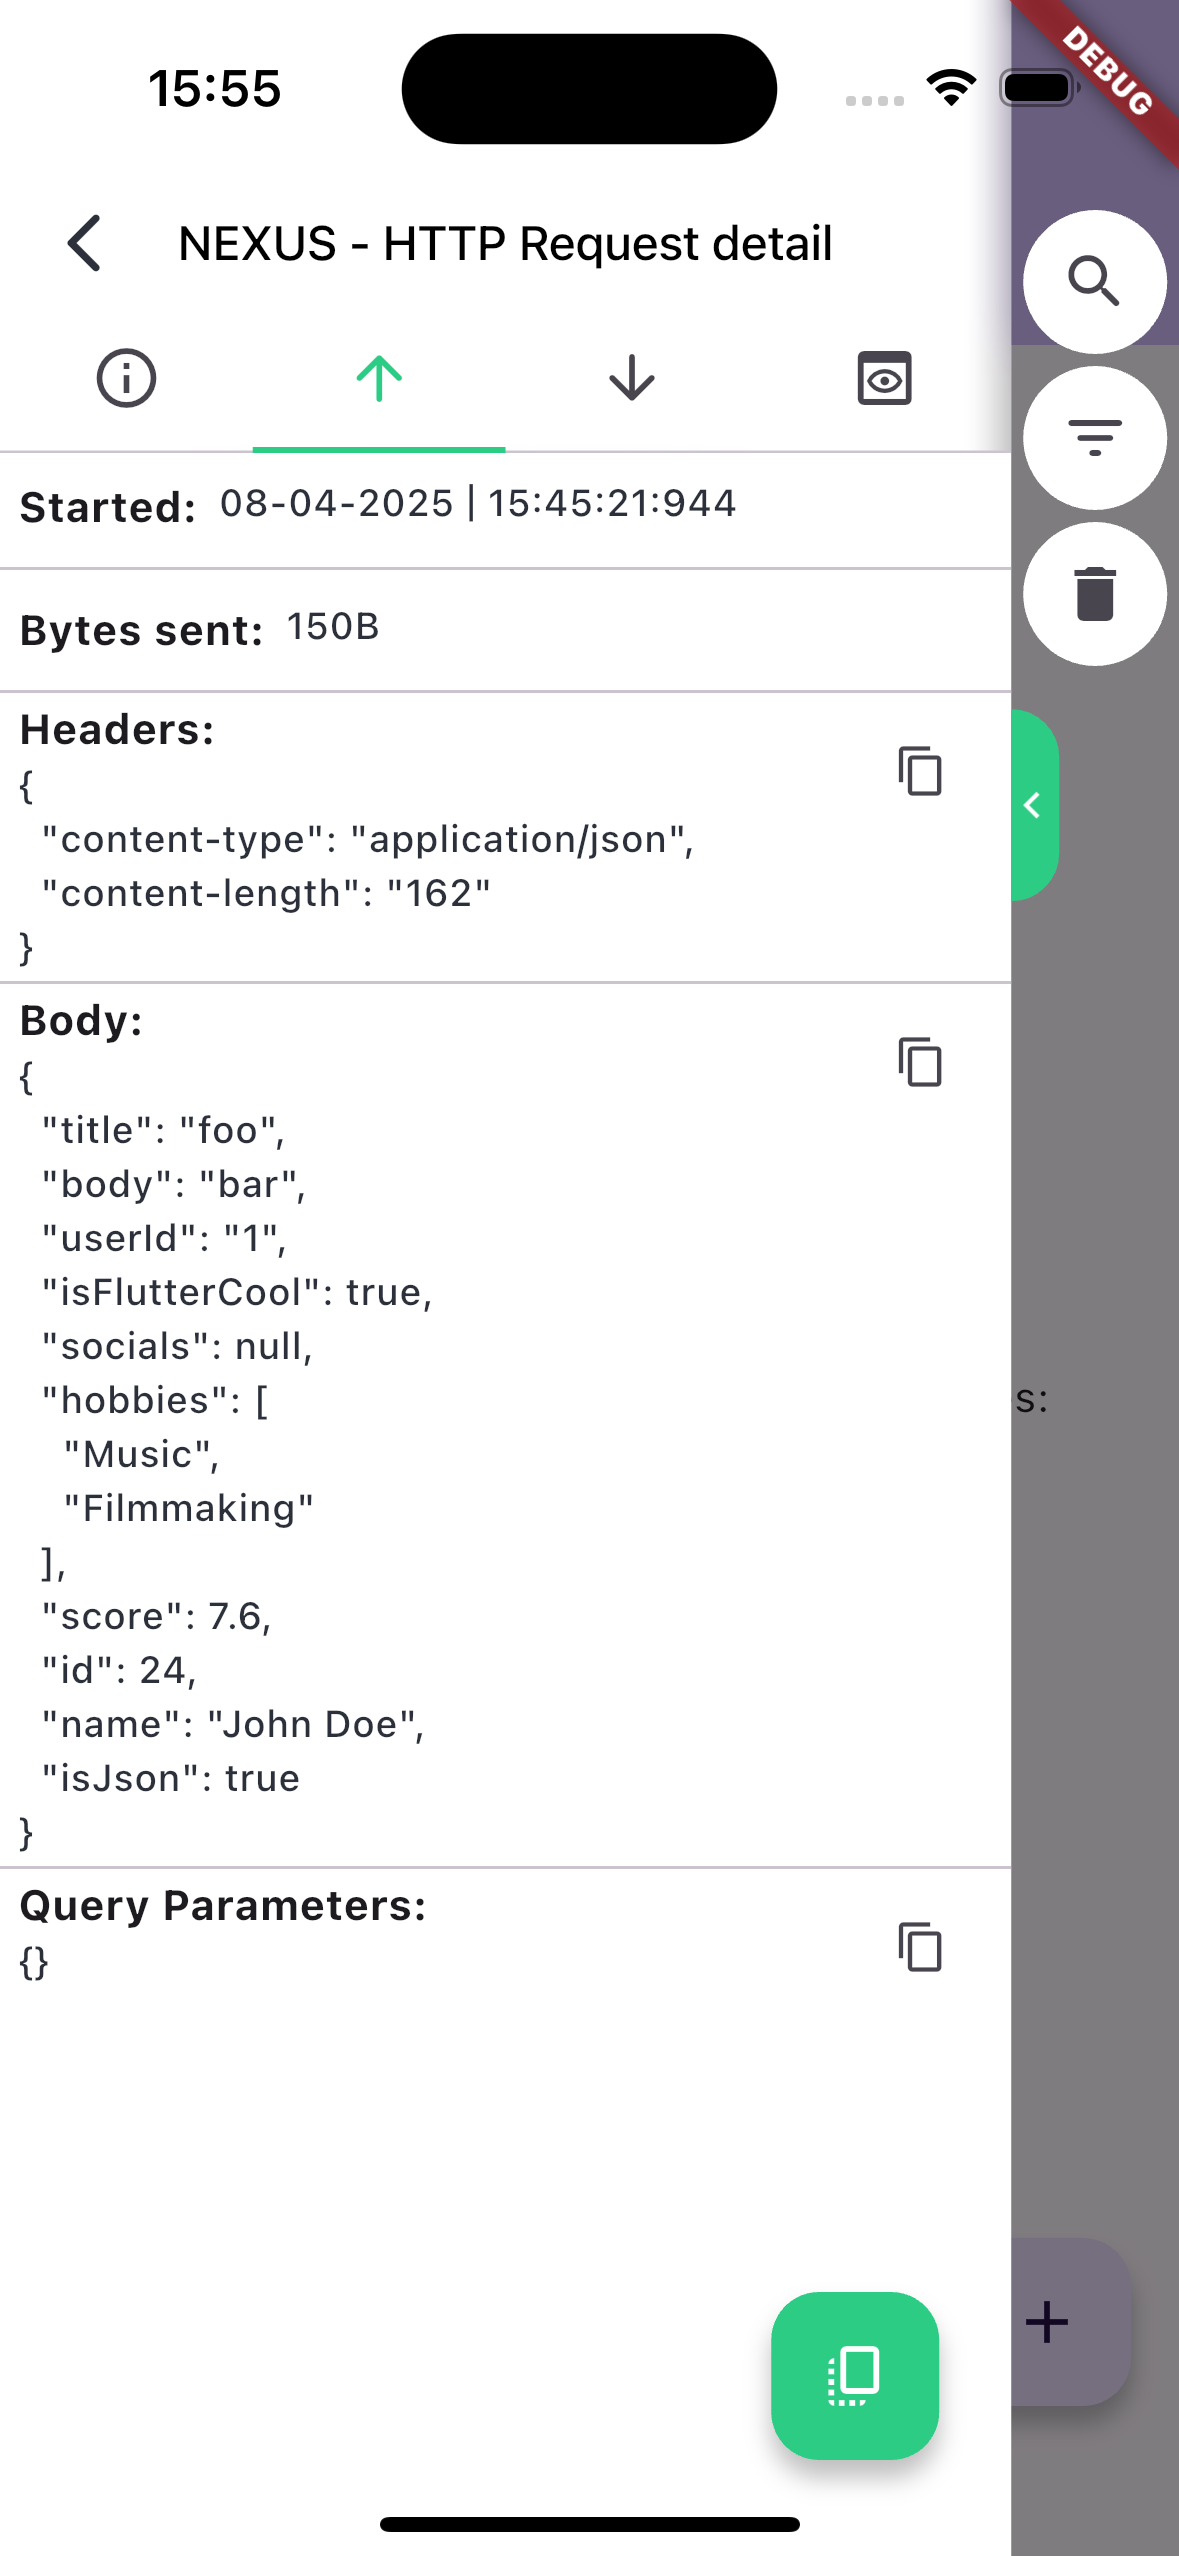
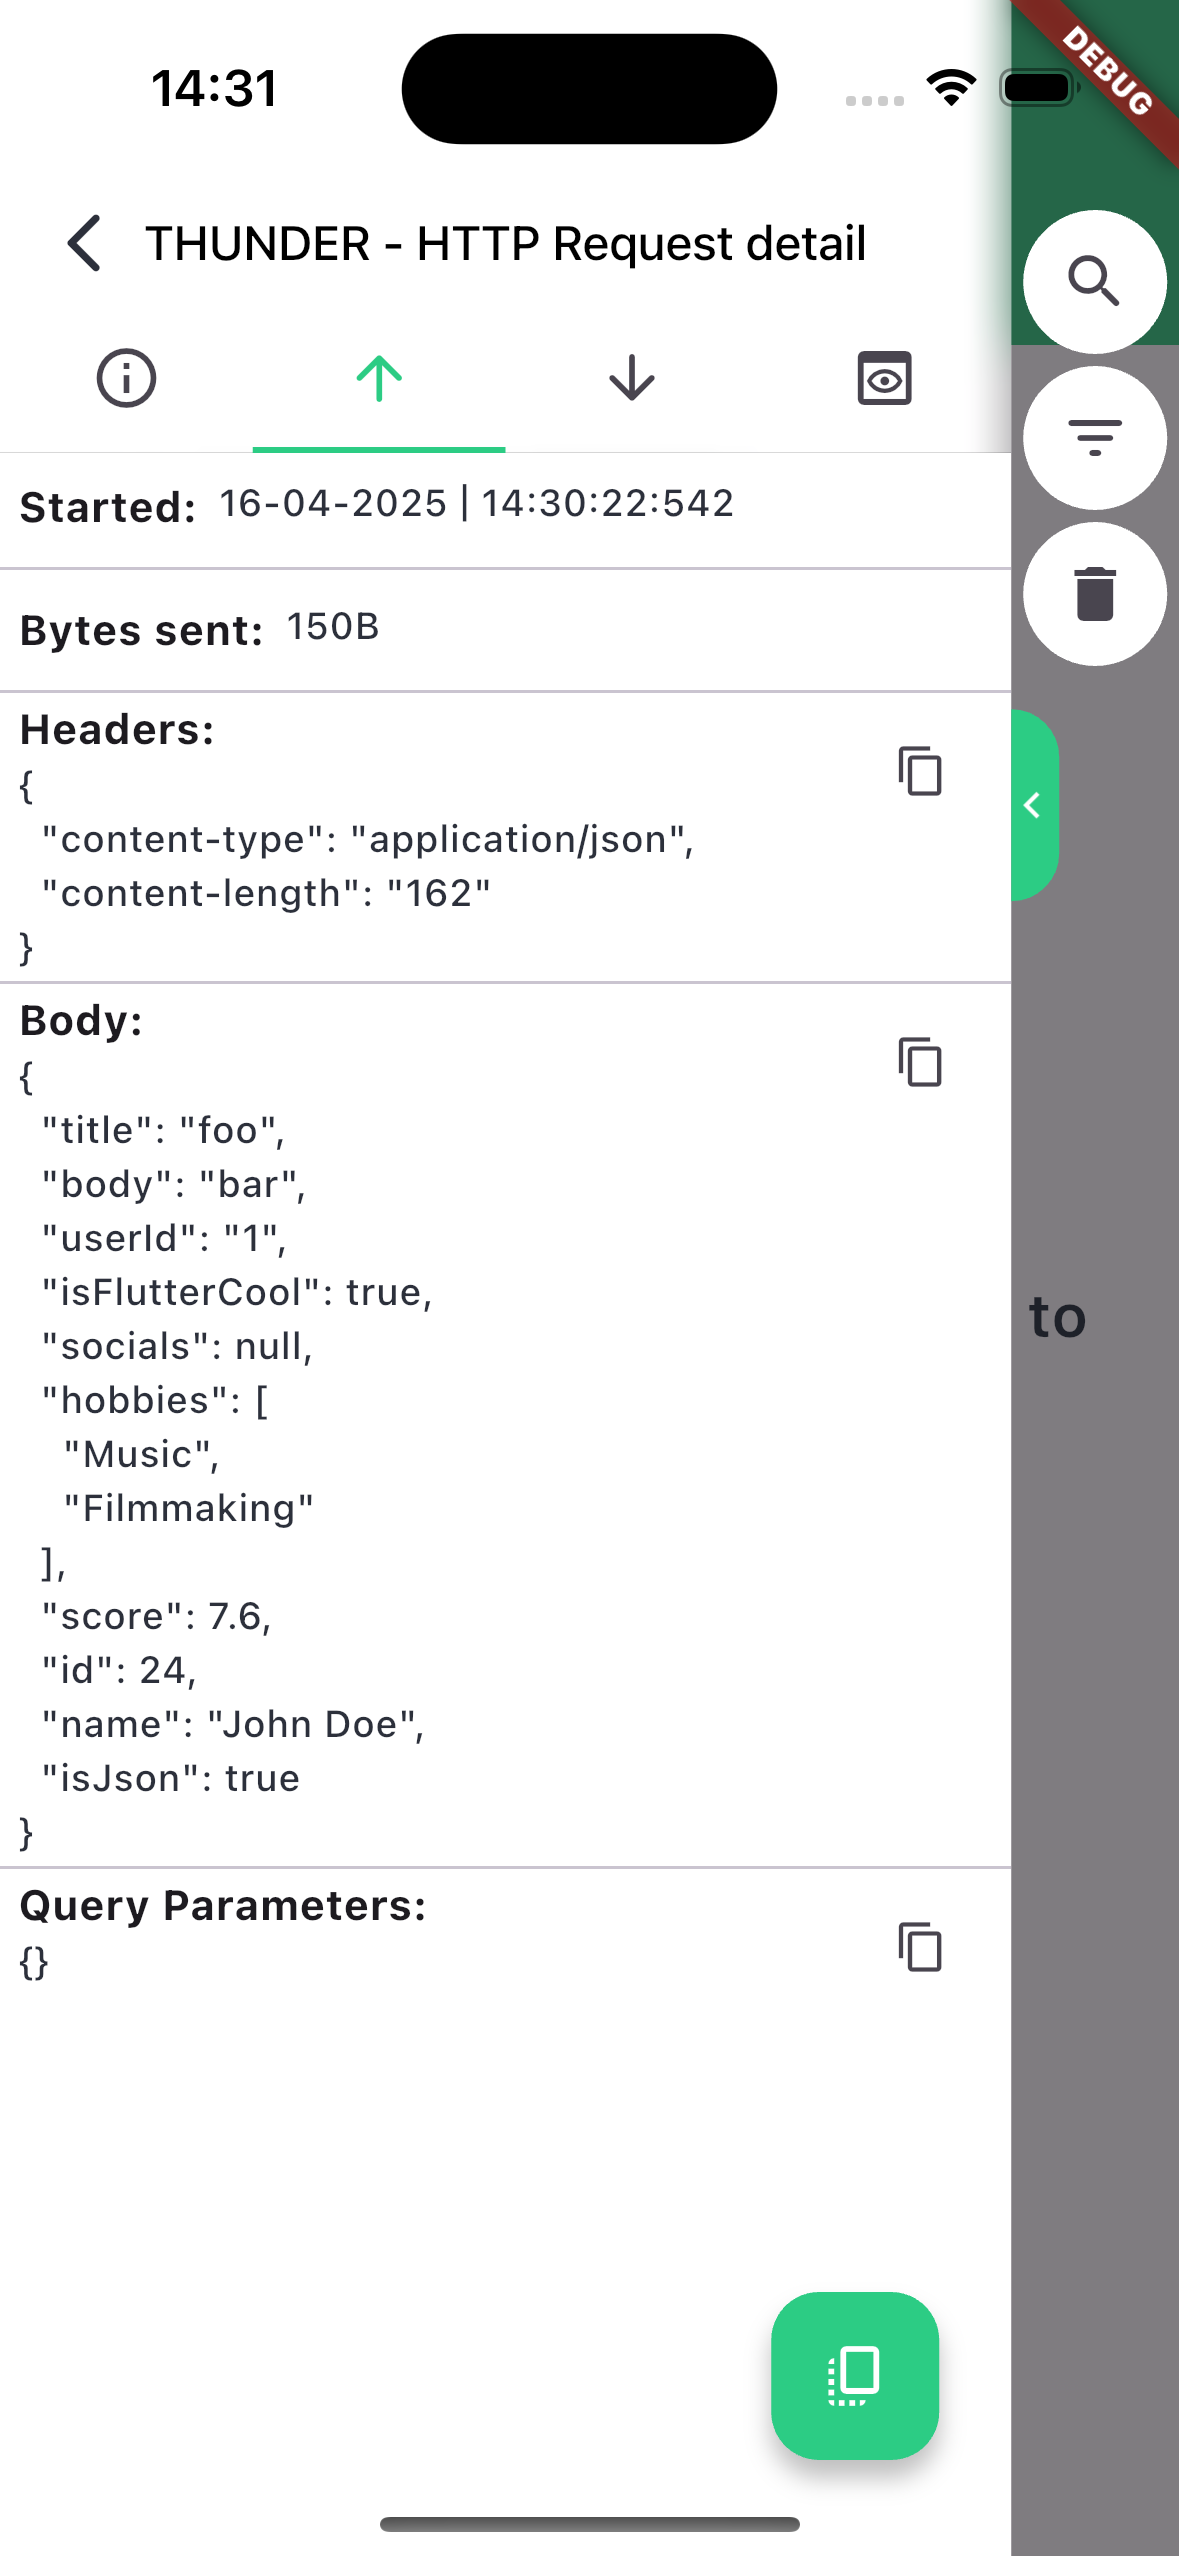
Update version to 0.0.7 in pubspec.yaml, enhance CHANGELOG.md with streamlined interceptor access and updated screenshots.

diff --git a/CHANGELOG.md b/CHANGELOG.md
@@ -1,5 +1,9 @@
 ## 0.0.6
 
+* Streamlined interceptor access; Screenshots changed
+
+## 0.0.6
+
 * Enable curly braces in flow control structures
 
 ## 0.0.5
